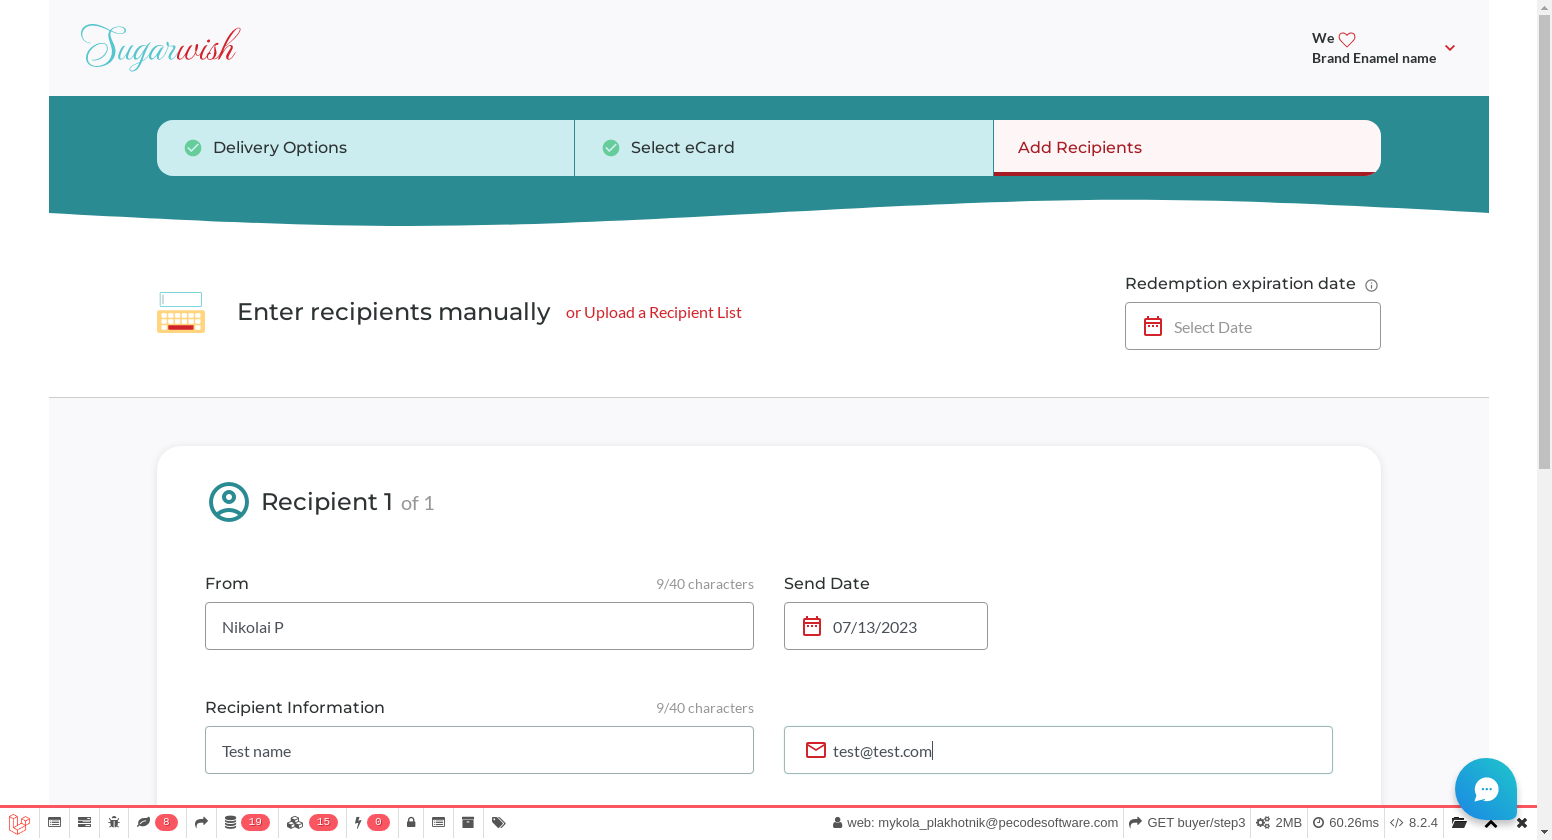
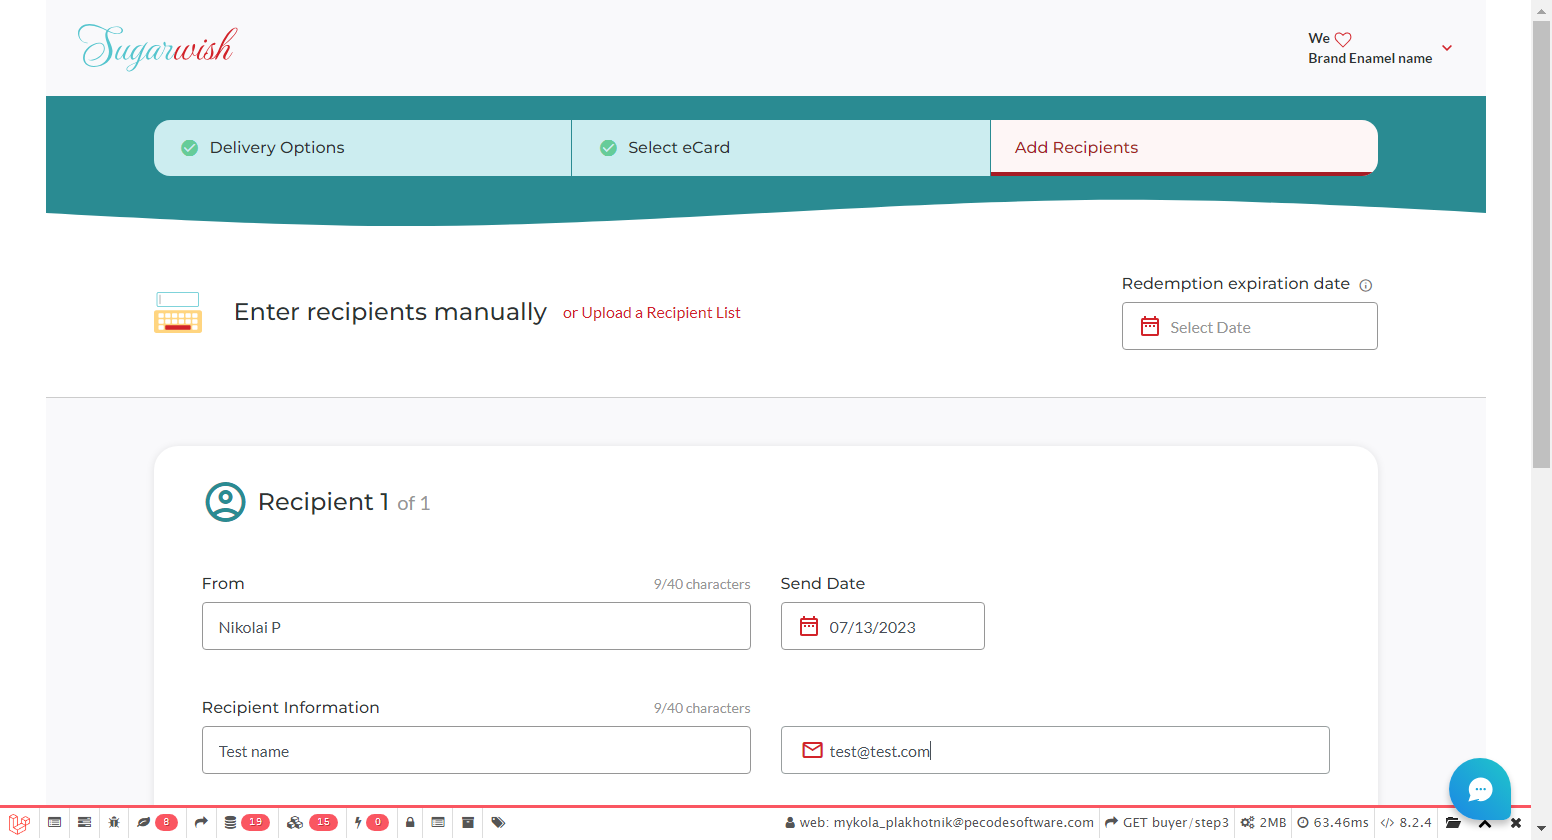
add scroll

diff --git a/reports/report.html b/reports/report.html
@@ -2,7 +2,7 @@
 <html>
   <head>
     <meta charset="utf-8"/>
-    <title>Test Report</title>
+    <title>ABM_Automation_Report</title>
     <style>body {
   font-family: Helvetica, Arial, sans-serif;
   font-size: 12px;
@@ -256,9 +256,19 @@ function hideExtras(colresultElem) {
 }
 
 function showFilters() {
+    let visibleString = getQueryParameter('visible') || 'all';
+    visibleString = visibleString.toLowerCase();
+    const checkedItems = visibleString.split(',');
+
     const filterItems = document.getElementsByClassName('filter');
-    for (let i = 0; i < filterItems.length; i++)
+    for (let i = 0; i < filterItems.length; i++) {
         filterItems[i].hidden = false;
+
+        if (visibleString != 'all') {
+            filterItems[i].checked = checkedItems.includes(filterItems[i].getAttribute('data-test-result'));
+            filterTable(filterItems[i]);
+        }
+    }
 }
 
 function addCollapse() {
@@ -429,24 +439,10 @@ function filterTable(elem) { // eslint-disable-line no-unused-vars
 }
 </script>
     <h1>ABM_Automation_Report</h1>
-    <p>Report generated on 13-Jul-2023 at 13:24:52 by <a href="https://pypi.python.org/pypi/pytest-html">pytest-html</a> v3.1.1</p>
-    <h2>Environment</h2>
-    <table id="environment">
-      <tr>
-        <td>Packages</td>
-        <td>{"pluggy": "0.13.1", "py": "1.10.0", "pytest": "7.0.1"}</td></tr>
-      <tr>
-        <td>Platform</td>
-        <td>Linux-5.19.0-1026-aws-x86_64-with-glibc2.35</td></tr>
-      <tr>
-        <td>Plugins</td>
-        <td>{"html": "3.1.1", "metadata": "1.11.0"}</td></tr>
-      <tr>
-        <td>Python</td>
-        <td>3.10.6</td></tr></table>
+    <p>Report generated on 13-Jul-2023 at 17:11:19 by <a href="https://pypi.python.org/pypi/pytest-html">pytest-html</a> v3.2.0</p>
     <h2>Summary</h2>
-    <p>1 tests ran in 23.49 seconds. </p>
-    <p class="filter" hidden="true">(Un)check the boxes to filter the results.</p><input checked="true" class="filter" data-test-result="passed" disabled="true" hidden="true" name="filter_checkbox" onChange="filterTable(this)" type="checkbox"/><span class="passed">0 passed</span>, <input checked="true" class="filter" data-test-result="skipped" disabled="true" hidden="true" name="filter_checkbox" onChange="filterTable(this)" type="checkbox"/><span class="skipped">0 skipped</span>, <input checked="true" class="filter" data-test-result="failed" hidden="true" name="filter_checkbox" onChange="filterTable(this)" type="checkbox"/><span class="failed">1 failed</span>, <input checked="true" class="filter" data-test-result="error" disabled="true" hidden="true" name="filter_checkbox" onChange="filterTable(this)" type="checkbox"/><span class="error">0 errors</span>, <input checked="true" class="filter" data-test-result="xfailed" disabled="true" hidden="true" name="filter_checkbox" onChange="filterTable(this)" type="checkbox"/><span class="xfailed">0 expected failures</span>, <input checked="true" class="filter" data-test-result="xpassed" disabled="true" hidden="true" name="filter_checkbox" onChange="filterTable(this)" type="checkbox"/><span class="xpassed">0 unexpected passes</span>
+    <p>1 tests ran in 47.73 seconds. </p>
+    <p class="filter" hidden="true">(Un)check the boxes to filter the results.</p><input checked="true" class="filter" data-test-result="passed" hidden="true" name="filter_checkbox" onChange="filterTable(this)" type="checkbox"/><span class="passed">1 passed</span>, <input checked="true" class="filter" data-test-result="skipped" disabled="true" hidden="true" name="filter_checkbox" onChange="filterTable(this)" type="checkbox"/><span class="skipped">0 skipped</span>, <input checked="true" class="filter" data-test-result="failed" disabled="true" hidden="true" name="filter_checkbox" onChange="filterTable(this)" type="checkbox"/><span class="failed">0 failed</span>, <input checked="true" class="filter" data-test-result="error" disabled="true" hidden="true" name="filter_checkbox" onChange="filterTable(this)" type="checkbox"/><span class="error">0 errors</span>, <input checked="true" class="filter" data-test-result="xfailed" disabled="true" hidden="true" name="filter_checkbox" onChange="filterTable(this)" type="checkbox"/><span class="xfailed">0 expected failures</span>, <input checked="true" class="filter" data-test-result="xpassed" disabled="true" hidden="true" name="filter_checkbox" onChange="filterTable(this)" type="checkbox"/><span class="xpassed">0 unexpected passes</span>
     <h2>Results</h2>
     <table id="results-table">
       <thead id="results-table-head">
@@ -457,28 +453,19 @@ function filterTable(elem) { // eslint-disable-line no-unused-vars
           <th class="sortable links" col="links">Links</th></tr>
         <tr hidden="true" id="not-found-message">
           <th colspan="4">No results found. Try to check the filters</th></tr></thead>
-      <tbody class="failed results-table-row">
+      <tbody class="passed results-table-row">
         <tr>
-          <td class="col-result">Failed</td>
+          <td class="col-result">Passed</td>
           <td class="col-name">test_payment.py::TestPayment::test_payment</td>
-          <td class="col-duration">23.26</td>
+          <td class="col-duration">47.71</td>
           <td class="col-links"><a class="url" href="https://dev:abmdev321@staging.autobidmaster.com/en/" target="_blank">URL</a> </td></tr>
         <tr>
           <td class="extra" colspan="4">
-            <div><div><img src="test_payment.py_TestPayment_test_payment.png" alt="screenshot" style="width:300px;height=200px"onclick="window.open(this.src)" align="right"/></div></div>
-            <div class="log">self = &lt;test_payment.TestPayment object at 0x7fbe1a6e2a10&gt;<br/><br/>    @pytest.mark.first_tests<br/>    def test_payment(self):<br/>        actions = ActionChains(self.driver)<br/>        log = LoggerABM.sample_logger()<br/>        self.driver.set_window_size(1552, 840)<br/>        self.driver.find_element(By.XPATH, &quot;//span[contains(.,\&#x27;Sign In\&#x27;)]&quot;).click()<br/>        log.info(&quot;\nclick on //span[contains(.,\&#x27;Sign In\&#x27;)]&quot;)<br/>        self.driver.find_element(By.XPATH, &quot;//input[@id=\&#x27;username\&#x27;]&quot;).click()<br/>        log.info(&quot;\nclick on //input[@id=\&#x27;username\&#x27;]&quot;)<br/>        self.driver.find_element(By.XPATH, &quot;//input[@id=\&#x27;username\&#x27;]&quot;).send_keys(<br/>            &quot;mykola_plakhotnik@pecodesoftware.com&quot;)<br/>        log.info(&quot;\nsend email&quot;)<br/>        self.driver.find_element(By.XPATH, &quot;//input[@id=\&#x27;password\&#x27;]&quot;).click()<br/>        log.info(&quot;\nclick on //input[@id=\&#x27;password\&#x27;]&quot;)<br/>        self.driver.find_element(By.XPATH, &quot;//input[@id=\&#x27;password\&#x27;]&quot;).send_keys(&quot;XOiz,NoIgQ-gjABROSfbqXd3&quot;)<br/>        log.info(&quot;\nsend password&quot;)<br/>        self.driver.find_element(By.XPATH, &quot;//button[@type=\&#x27;submit\&#x27;]&quot;).click()<br/>        log.info(&quot;\nclick on submit&quot;)<br/>        verify(self.driver.find_element(By.XPATH, &quot;//a[@id=&#x27;desktopAccountDropdown&#x27;]/span/span[2]&quot;).is_displayed(),<br/>               &#x27;element is not displayed&#x27;,<br/>               &#x27;element is displayed&#x27;)<br/>        log.info(&quot;\nverify that element is displayed&quot;)<br/>        self.driver.find_element(By.XPATH, &quot;//span[contains(@class, &#x27;sugarwish-dropdown-text&#x27;)]&quot;).click()<br/>        self.driver.find_element(By.XPATH, &quot;//div[@class=&#x27;products-wrapper&#x27;]//a[@href=&#x27;/products/candy&#x27;]&quot;).click()<br/>        log.info(&quot;\nopen candy page&quot;)<br/>        self.driver.find_element(By.XPATH, &quot;//label[@class=&#x27;size-option__field &#x27; and @for=&#x27;option157&#x27;]&quot;).click()<br/>        log.info(&quot;\nclick on send sugarwishes &quot;)<br/>        assert self.driver.find_element(By.XPATH, &quot;//h6[@id=&#x27;totalPrice&#x27;]&quot;).text == &quot;$25&quot;<br/>        log.info(&quot;\nprice is correct 25&quot;)<br/>        actions.move_to_element(self.driver.find_element(By.XPATH, &quot;//span[@class=&#x27;all-counts&#x27;]&quot;)).perform()<br/>        self.driver.find_element(By.XPATH, &quot;//a[@id=&#x27;showCustomSelectModal&#x27;]&quot;).click()<br/>        actions.move_to_element(self.driver.find_element(By.XPATH, &quot;//span[@class=&#x27;text-light&#x27;]&quot;)).perform()<br/>        self.driver.find_element(By.XPATH, &quot;//div[@id=&#x27;collapseOne&#x27;]//a[contains(@class,&#x27;step1_continue&#x27;)]&quot;).click()<br/>        log.info(&quot;\nclick on second continue&quot;)<br/>        actions.move_to_element(self.driver.find_element(By.XPATH, &quot;//a[@data-ecard_id=&#x27;15651&#x27;]&quot;)).perform()<br/>        self.driver.find_element(By.XPATH, &quot;//a[contains(@class,&#x27;items-wrap&#x27;)]&quot;).click()<br/>        log.info(&quot;\nchoose a picture&quot;)<br/>        self.driver.find_element(By.XPATH, &quot;//div[contains(@class,&#x27;show&#x27;)]//button[@onclick=&#x27;continueStep()&#x27;]&quot;).click()<br/>        log.info(&quot;\nenter manually click&quot;)<br/>        self.driver.find_element(By.XPATH, &quot;//input[@id=&#x27;receiver-name1&#x27;]&quot;).send_keys(&quot;Test name&quot;)<br/>        log.info(&quot;\ninput name&quot;)<br/>        self.driver.find_element(By.XPATH, &quot;//input[@id=&#x27;receiver-email1&#x27;]&quot;).send_keys(&quot;test@test.com&quot;)<br/>        log.info(&quot;\ninput email&quot;)<br/>&gt;       actions.scroll_by_amount(500, 500).perform()<br/><span class="error">E       AttributeError: &#x27;ActionChains&#x27; object has no attribute &#x27;scroll_by_amount&#x27;</span><br/><br/>test_payment.py:67: AttributeError<br/> -----------------------------Captured stdout setup------------------------------ <br/>
-<br/> -----------------------------Captured stderr setup------------------------------ <br/>[WDM] - ====== WebDriver manager ======
-[WDM] - Current google-chrome version is 112.0.5615
-[WDM] - Get LATEST chromedriver version for 112.0.5615 google-chrome
-[WDM] - Driver [/root/.wdm/drivers/chromedriver/linux64/112.0.5615.49/chromedriver] found in cache
-<br/> -------------------------------Captured log setup------------------------------- <br/>INFO     &lt;module&gt;:conftest.py:23 
+            <div class="log"> -------------------------------Captured log setup------------------------------- <br/>INFO     &lt;module&gt;:conftest.py:23 
 start chrome browser for test
-INFO     WDM:logger.py:16 ====== WebDriver manager ======
-INFO     WDM:logger.py:16 Current google-chrome version is 112.0.5615
-INFO     WDM:logger.py:16 Get LATEST chromedriver version for 112.0.5615 google-chrome
-INFO     WDM:logger.py:16 Driver [/root/.wdm/drivers/chromedriver/linux64/112.0.5615.49/chromedriver] found in cache
 INFO     &lt;module&gt;:conftest.py:25 
 start<br/> ------------------------------Captured stdout call------------------------------ <br/>[SUCCESS]:element is displayed
+[SUCCESS]:
 <br/> -------------------------------Captured log call-------------------------------- <br/>INFO     test_payment:test_payment.py:30 
 click on //span[contains(.,&#x27;Sign In&#x27;)]
 INFO     test_payment:test_payment.py:32 
@@ -508,7 +495,13 @@ enter manually click
 INFO     test_payment:test_payment.py:64 
 input name
 INFO     test_payment:test_payment.py:66 
-input email<br/> -----------------------------Captured log teardown------------------------------ <br/>INFO     &lt;module&gt;:conftest.py:36 quit browser..
-WARNING  urllib3.connectionpool:connectionpool.py:823 Retrying (Retry(total=2, connect=None, read=None, redirect=None, status=None)) after connection broken by &#x27;NewConnectionError(&#x27;&lt;urllib3.connection.HTTPConnection object at 0x7fbe1a5f3610&gt;: Failed to establish a new connection: [Errno 111] Connection refused&#x27;)&#x27;: /session/ec4a89aae222cfcd448497b71c5cb4d5
-WARNING  urllib3.connectionpool:connectionpool.py:823 Retrying (Retry(total=1, connect=None, read=None, redirect=None, status=None)) after connection broken by &#x27;NewConnectionError(&#x27;&lt;urllib3.connection.HTTPConnection object at 0x7fbe1a5f3970&gt;: Failed to establish a new connection: [Errno 111] Connection refused&#x27;)&#x27;: /session/ec4a89aae222cfcd448497b71c5cb4d5
-WARNING  urllib3.connectionpool:connectionpool.py:823 Retrying (Retry(total=0, connect=None, read=None, redirect=None, status=None)) after connection broken by &#x27;NewConnectionError(&#x27;&lt;urllib3.connection.HTTPConnection object at 0x7fbe1a5f34f0&gt;: Failed to establish a new connection: [Errno 111] Connection refused&#x27;)&#x27;: /session/ec4a89aae222cfcd448497b71c5cb4d5<br/></div></td></tr></tbody></table></body></html>
+input email
+INFO     test_payment:test_payment.py:81 
+click on //a[@id=&#x27;desktopAccountDropdown&#x27;]/span/span[2]
+INFO     test_payment:test_payment.py:83 
+click on //a[contains(.,&#x27;Log Out&#x27;)]
+INFO     test_payment:test_payment.py:85 
+test finish<br/> -----------------------------Captured log teardown------------------------------ <br/>INFO     &lt;module&gt;:conftest.py:36 quit browser..
+WARNING  urllib3.connectionpool:connectionpool.py:871 Retrying (Retry(total=2, connect=None, read=None, redirect=None, status=None)) after connection broken by &#x27;NewConnectionError(&#x27;&lt;urllib3.connection.HTTPConnection object at 0x0000019D6BBBCD60&gt;: Failed to establish a new connection: [WinError 10061] No connection could be made because the target machine actively refused it&#x27;)&#x27;: /session/29882012d86a07188c929f8a3d5cce7b
+WARNING  urllib3.connectionpool:connectionpool.py:871 Retrying (Retry(total=1, connect=None, read=None, redirect=None, status=None)) after connection broken by &#x27;NewConnectionError(&#x27;&lt;urllib3.connection.HTTPConnection object at 0x0000019D6BBBA5B0&gt;: Failed to establish a new connection: [WinError 10061] No connection could be made because the target machine actively refused it&#x27;)&#x27;: /session/29882012d86a07188c929f8a3d5cce7b
+WARNING  urllib3.connectionpool:connectionpool.py:871 Retrying (Retry(total=0, connect=None, read=None, redirect=None, status=None)) after connection broken by &#x27;NewConnectionError(&#x27;&lt;urllib3.connection.HTTPConnection object at 0x0000019D6BBBAE80&gt;: Failed to establish a new connection: [WinError 10061] No connection could be made because the target machine actively refused it&#x27;)&#x27;: /session/29882012d86a07188c929f8a3d5cce7b<br/></div></td></tr></tbody></table></body></html>

diff --git a/test_payment.py b/test_payment.py
@@ -64,8 +64,8 @@ class TestPayment:
         log.info("\ninput name")
         self.driver.find_element(By.XPATH, "//input[@id='receiver-email1']").send_keys("test@test.com")
         log.info("\ninput email")
-        actions.scroll_to_element(self.driver.find_element(By.XPATH, "//a[@id='continue-btn-1']"))
-        actions.move_to_element(self.driver.find_element(By.XPATH, "//a[@id='continue-btn-1']"))
+        self.driver.execute_script("window.scrollTo(0, 500)")
+
         self.driver.find_element(By.XPATH, "//a[@id='continue-btn-1']").click()
         self.driver.find_element(By.XPATH, "//button[@id='checkout']").click()
         actions.move_to_element(self.driver.find_element(By.XPATH, "//form[@id='pay-with-paypal']")).perform()
